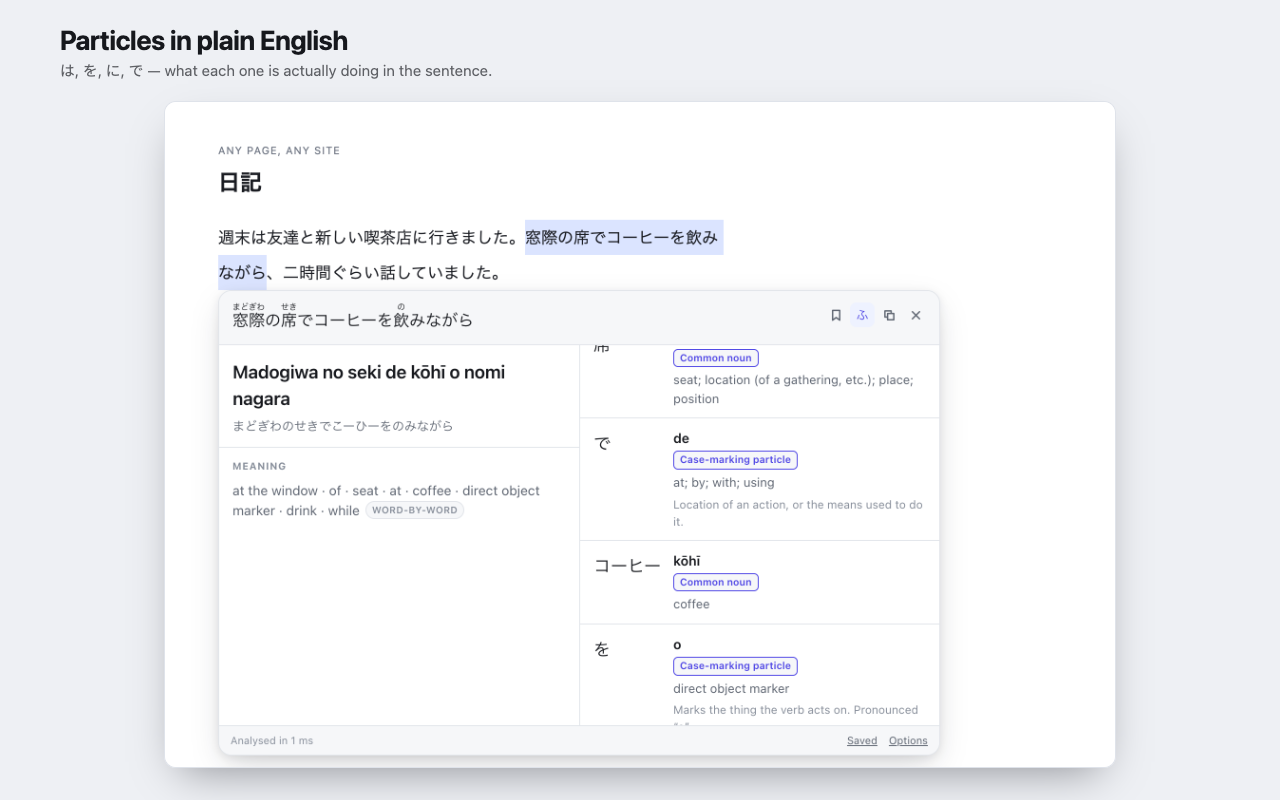
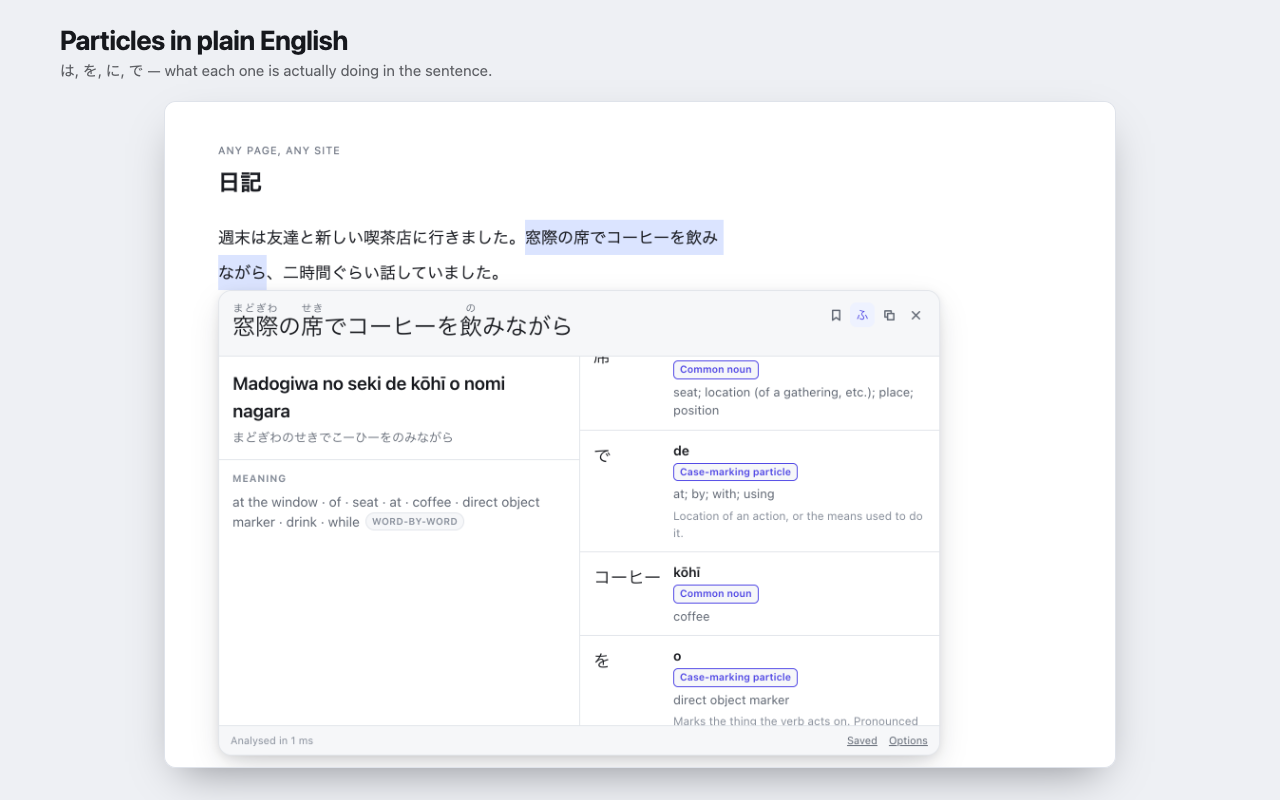
Set the sentence in the panel header at display size
The highlighted sentence is what the panel is about, and at 17px it read
smaller than the romaji beneath it. It is now 24px with a taller line so
the furigana has room above each line, and the ruby text gets an explicit
size and colour as it does in the breakdown rows. Store screenshots
re-shot.

diff --git a/src/content/styles.ts b/src/content/styles.ts
@@ -133,12 +133,21 @@ export const PANEL_STYLES = /* css */ `
   background: var(--rr-bg-soft);
 }
 
+/* The sentence itself is what the panel is about, so it reads at display
+   size, with room above each line for the furigana. */
 .panel__source {
   flex: 1;
   min-width: 0;
-  font-size: 17px;
-  line-height: 1.7;
+  font-size: 24px;
+  line-height: 1.75;
   word-break: break-word;
+}
+
+.panel__source ruby { ruby-position: over; }
+.panel__source rt {
+  font-size: 0.45em;
+  font-weight: 400;
+  color: var(--rr-fg-muted);
 }
 
 .panel__actions { display: flex; gap: 2px; flex-shrink: 0; }
